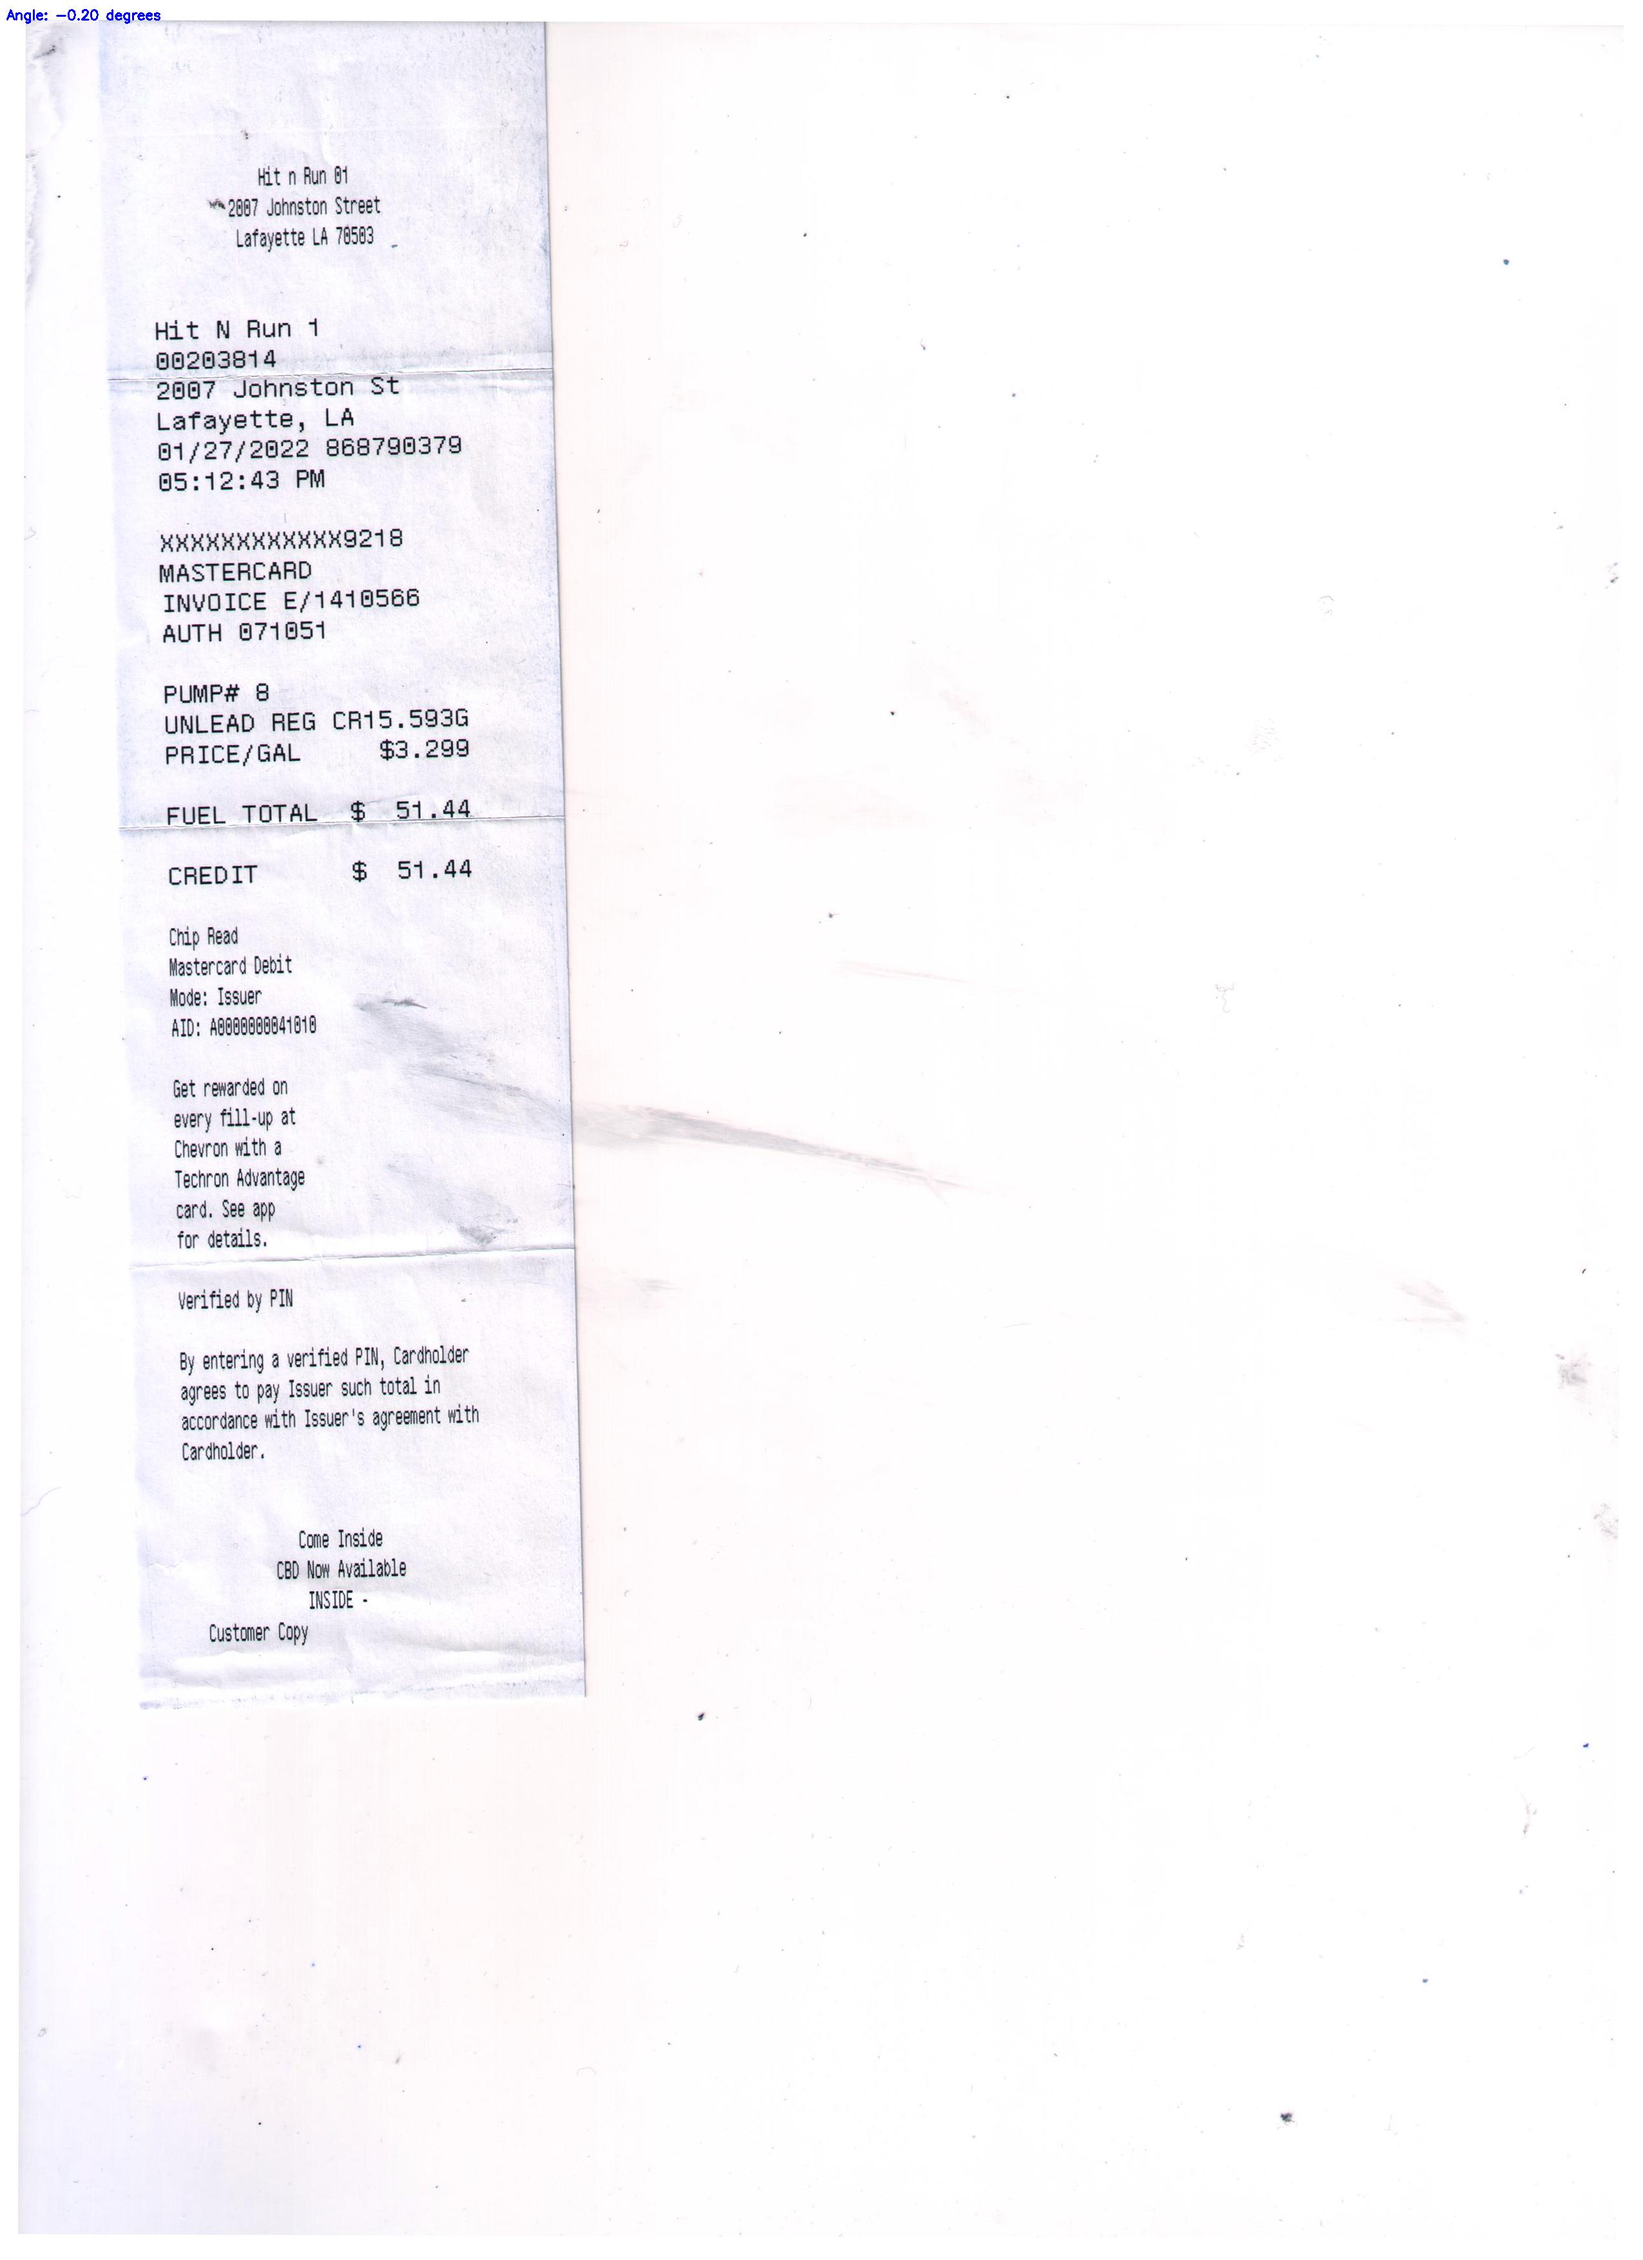
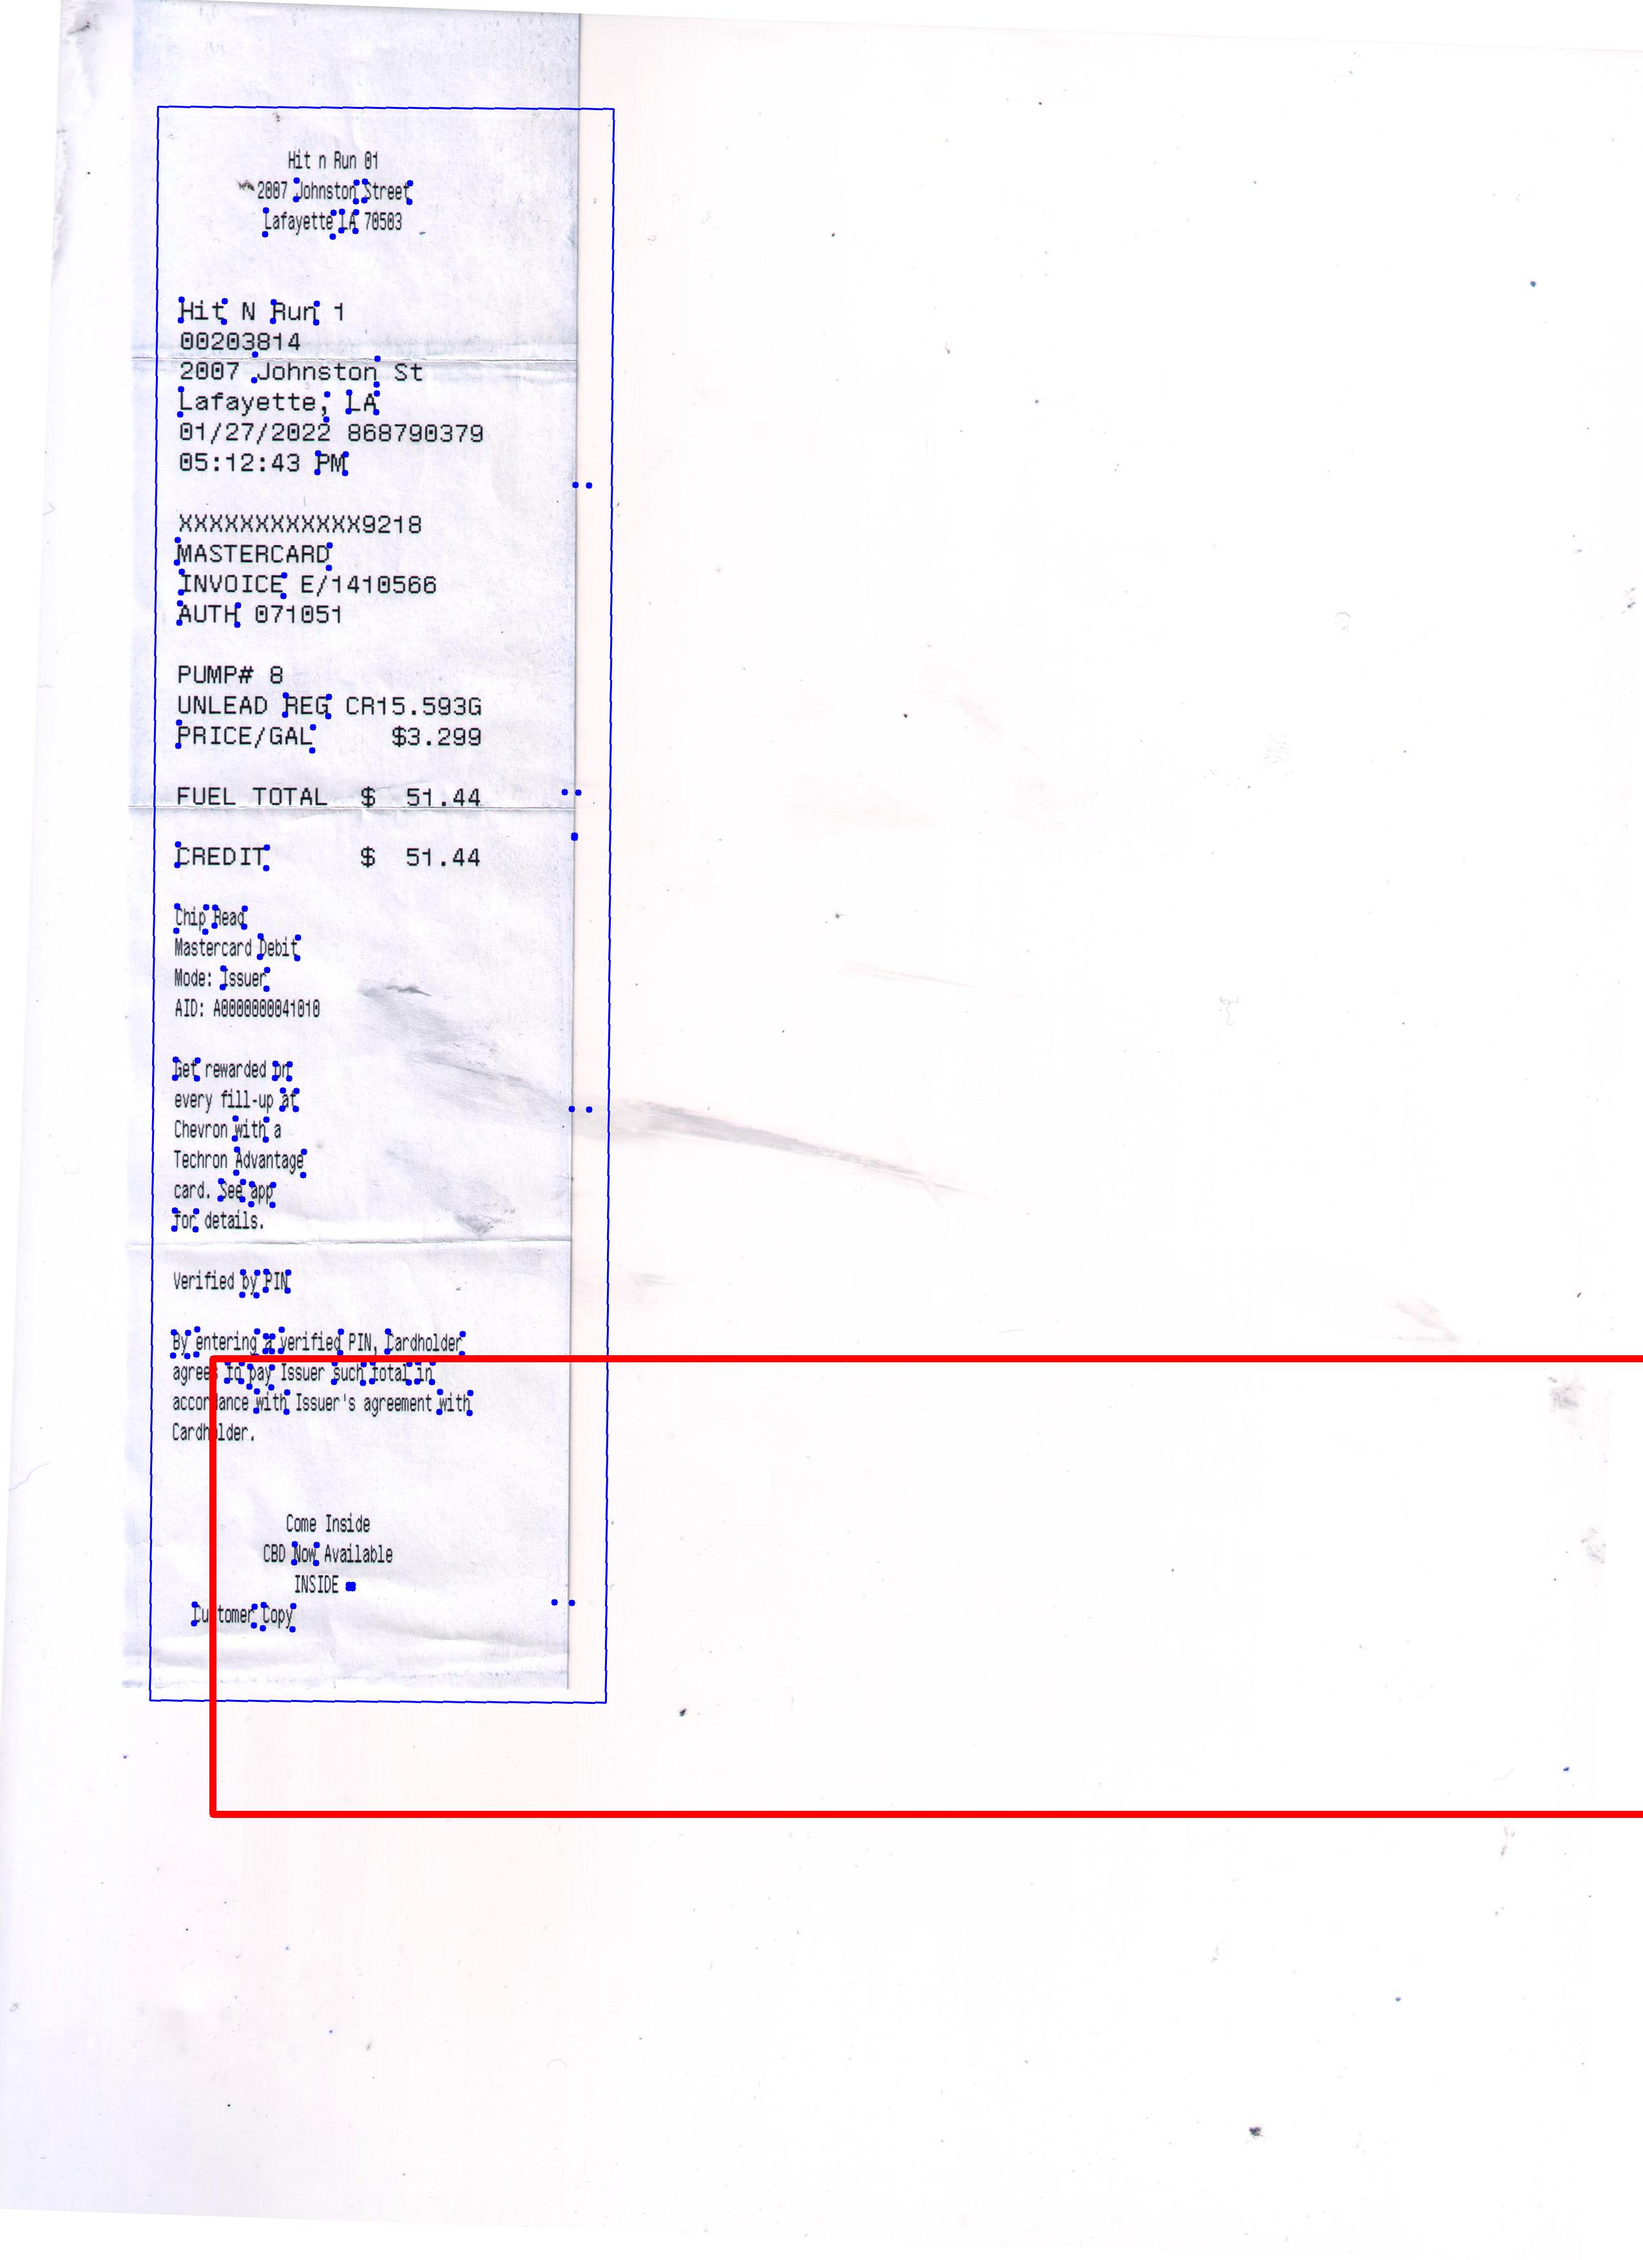
Adding Skew correction to localdeskew.py, working on cropping image.

diff --git a/deskewing/localdeskew.py b/deskewing/localdeskew.py
@@ -1,0 +1,142 @@
+from pytesseract import*
+import argparse 
+import cv2 
+from PIL import Image 
+import numpy as np
+import math
+  
+# We construct the argument parser 
+# and parse the arguments 
+ap = argparse.ArgumentParser() 
+  
+ap.add_argument("-i", "--image", 
+                required=True, 
+                help="path to input image to be OCR'd") 
+ap.add_argument("-c", "--min-conf", 
+                type=int, default=0, 
+                help="minimum confidence value to filter weak text detection") 
+args = vars(ap.parse_args()) 
+  
+# We load the input image and then convert 
+# it to RGB from BGR. We then use Tesseract 
+# to localize each area of text in the input 
+# image 
+images = cv2.imread(args["image"]) 
+rgb = cv2.cvtColor(images, cv2.COLOR_BGR2RGB) 
+results = pytesseract.image_to_data(rgb, output_type=Output.DICT)
+
+textPoints=[]
+
+# Then loop over each of the individual text 
+# localizations
+for i in range(0, len(results["text"])): 
+
+    conf = int(results["conf"][i]) 
+
+    # filter out weak confidence text localizations 
+    if conf > args["min_conf"]:
+
+        # We can then extract the bounding box coordinates 
+        # of the text region from  the current result 
+        x = results["left"][i] 
+        y = results["top"][i] 
+        w = results["width"][i] 
+        h = results["height"][i]
+
+        # We will also extract the OCR text itself along 
+        # with the confidence of the text localization 
+        text = results["text"][i]
+
+        # We will display the confidence and text to 
+        # our terminal for development
+        print("Confidence: {}".format(conf)) 
+        print("Text: {}".format(text)) 
+        print("") 
+        
+        # We then plot little circles on the image to denote the
+        # locations of the corners of each rectangle surrounding our text.
+        cv2.circle(images, (x, y), 5, (0,0,255), -1) # Draw a circle
+        textPoints.append([x, y]) # Append point coordinates to list of points.
+    
+        cv2.circle(images, (x + w, y), 5, (0,0,255), -1) # Draw a circle
+        textPoints.append([x + w, y])
+        
+        cv2.circle(images, (x, y + h), 5, (0,0,255), -1) # Draw a circle
+        textPoints.append([x, y + h])
+    
+        cv2.circle(images, (x + w, y + h), 5, (0,0,255), -1) # Draw a circle
+        textPoints.append([x + w, y + h])
+
+# Take the full list of point coordinates and convert to a numpy array.
+textPoints = np.array(textPoints)
+
+# Calculate the minimum area rectangle which can surround the points in textPoints
+rectangle = cv2.minAreaRect(textPoints)
+
+rectcenter_x=int(rectangle[0][0])
+rectcenter_y=int(rectangle[0][1])
+rect_w=int(rectangle[1][0]) + int(rectangle[1][0])*0.1
+rect_h=int(rectangle[1][1]) + int(rectangle[1][1])*0.1
+
+# Takes the coordinates of the center, the height and width and
+# returns the coordinates of the corners of the box.
+box = cv2.boxPoints([[rectcenter_x,rectcenter_y],[rect_w,rect_h],rectangle[2]])
+box = np.int64(box)  # Convert to integer type
+
+# Draws the outline of the rectangle given the
+# four corners of the rectangle
+cv2.drawContours(images, [box], -1, (0, 0, 255), 2)
+
+## I assume that the rectangle when the angle = 0
+#  is vertically oriented perfectly.
+angle = int(rectangle[2])
+print(angle)
+if angle < 90 and angle > 45:
+    angle = angle-90
+else:
+    angle = angle
+print(angle)
+
+
+# Rotate the Image
+(h, w) = images.shape[:2]
+center = (w // 2, h // 2)
+M = cv2.getRotationMatrix2D(center, angle, 1.0)
+rotated = cv2.warpAffine(images, M, (w, h),
+	flags=cv2.INTER_CUBIC, borderMode=cv2.BORDER_REPLICATE)
+
+## To crop the image after rotation at the edge of the rectangle,
+#  I must know the coordinates of the rectangle center.
+#  To do this, I must assume that the center of the image is still the center 
+#  after rotation. Which then means that the distance from the image center to rectangle center is constant. 
+#  1. Calculate the angle between the Horizontal and the line
+#     between the image center and the rectangle center before rotation.
+x_diff1 = rectcenter_x-center[0]
+y_diff1 = rectcenter_y-center[1]
+
+
+dist_rectCtoC = math.sqrt(((x_diff1)**2)+((y_diff1)**2))
+theta1 = math.atan(y_diff1/x_diff1)*180/math.pi
+#  2. Use that angle to calculate the x and y coordinate offset
+#     for rectangle center.
+print(theta1)
+print(angle)
+theta2 = theta1-angle
+print(theta2)
+(h, w) = rotated.shape[:2]
+rotatedcenter = (w // 2, h // 2)
+rectcenter2_x = rotatedcenter[0] - math.cos(theta2)*dist_rectCtoC
+rectcenter2_y = rotatedcenter[1] + math.sin(theta2)*dist_rectCtoC
+
+#  3. Plot the newly calculated rectangle position for a sanity check.
+box2 = cv2.boxPoints([[rectcenter2_x,rectcenter2_y],[rect_w,rect_h],0])
+box2 = np.int64(box2)  # Convert to integer type
+cv2.drawContours(rotated, [box2], -1, (255, 0,0), 10)
+
+# Crop the image
+#cropped = rotated[]
+
+
+
+image = Image.fromarray(images).save("image.jpg")
+rotated = Image.fromarray(rotated).save("rotated.jpg")

diff --git a/deskewing/textlocal.py b/deskewing/textlocal.py
@@ -1,0 +1,98 @@
+
+from pytesseract import*
+import argparse 
+import cv2 
+from PIL import Image 
+import numpy as np
+  
+# We construct the argument parser 
+# and parse the arguments 
+ap = argparse.ArgumentParser() 
+  
+ap.add_argument("-i", "--image", 
+                required=True, 
+                help="path to input image to be OCR'd") 
+ap.add_argument("-c", "--min-conf", 
+                type=int, default=0, 
+                help="minimum confidence value to filter weak text detection") 
+args = vars(ap.parse_args()) 
+  
+# We load the input image and then convert 
+# it to RGB from BGR. We then use Tesseract 
+# to localize each area of text in the input 
+# image 
+images = cv2.imread(args["image"]) 
+rgb = cv2.cvtColor(images, cv2.COLOR_BGR2RGB) 
+results = pytesseract.image_to_data(rgb, output_type=Output.DICT) 
+#print (results) 
+#print("*********************************")
+#osdresults = pytesseract.image_to_osd(rgb) 
+#print (osdresults)
+# Then loop over each of the individual text 
+# localizations 
+
+textPoints=[]
+
+for i in range(0, len(results["text"])): 
+
+    conf = int(results["conf"][i]) 
+
+    # filter out weak confidence text localizations 
+    if conf > args["min_conf"]:
+
+        # We can then extract the bounding box coordinates 
+        # of the text region from  the current result 
+        x = results["left"][i] 
+        y = results["top"][i] 
+        w = results["width"][i] 
+        h = results["height"][i] 
+        
+        # We will also extract the OCR text itself along 
+        # with the confidence of the text localization 
+        text = results["text"][i] 
+        
+        # We will display the confidence and text to 
+        # our terminal 
+        print("Confidence: {}".format(conf)) 
+        print("Text: {}".format(text)) 
+        print("") 
+        
+        # We then 
+
+        cv2.circle(images, (x, y), 5, (0,0,255), -1) # Draw a circle
+        textPoints.append([x, y])
+    
+        cv2.circle(images, (x + w, y), 5, (0,0,255), -1) # Draw a circle
+        textPoints.append([x + w, y])
+        
+        cv2.circle(images, (x, y + h), 5, (0,0,255), -1) # Draw a circle
+        textPoints.append([x, y + h])
+    
+        cv2.circle(images, (x + w, y + h), 5, (0,0,255), -1) # Draw a circle
+        textPoints.append([x + w, y + h])
+        
+
+        '''
+        cv2.putText(images, 
+                    text, 
+                    (x, y - 10),  
+                    cv2.FONT_HERSHEY_SIMPLEX, 
+                    1.2, (0, 255, 255), 3)
+        ''' 
+
+textPoints = np.array(textPoints)
+rectangle = cv2.minAreaRect(textPoints)
+box = cv2.boxPoints(rectangle)
+box = np.int64(box)  # Convert to integer type
+print(rectangle)
+print(box)
+cv2.drawContours(images, [box], -1, (0, 0, 255), 2)
+##########################################################
+#Currently here, next step is to integrate with deskewing.
+
+
+
+
+# After all, we will show the output image 
+image = Image.fromarray(images).save("image.jpg")
+
